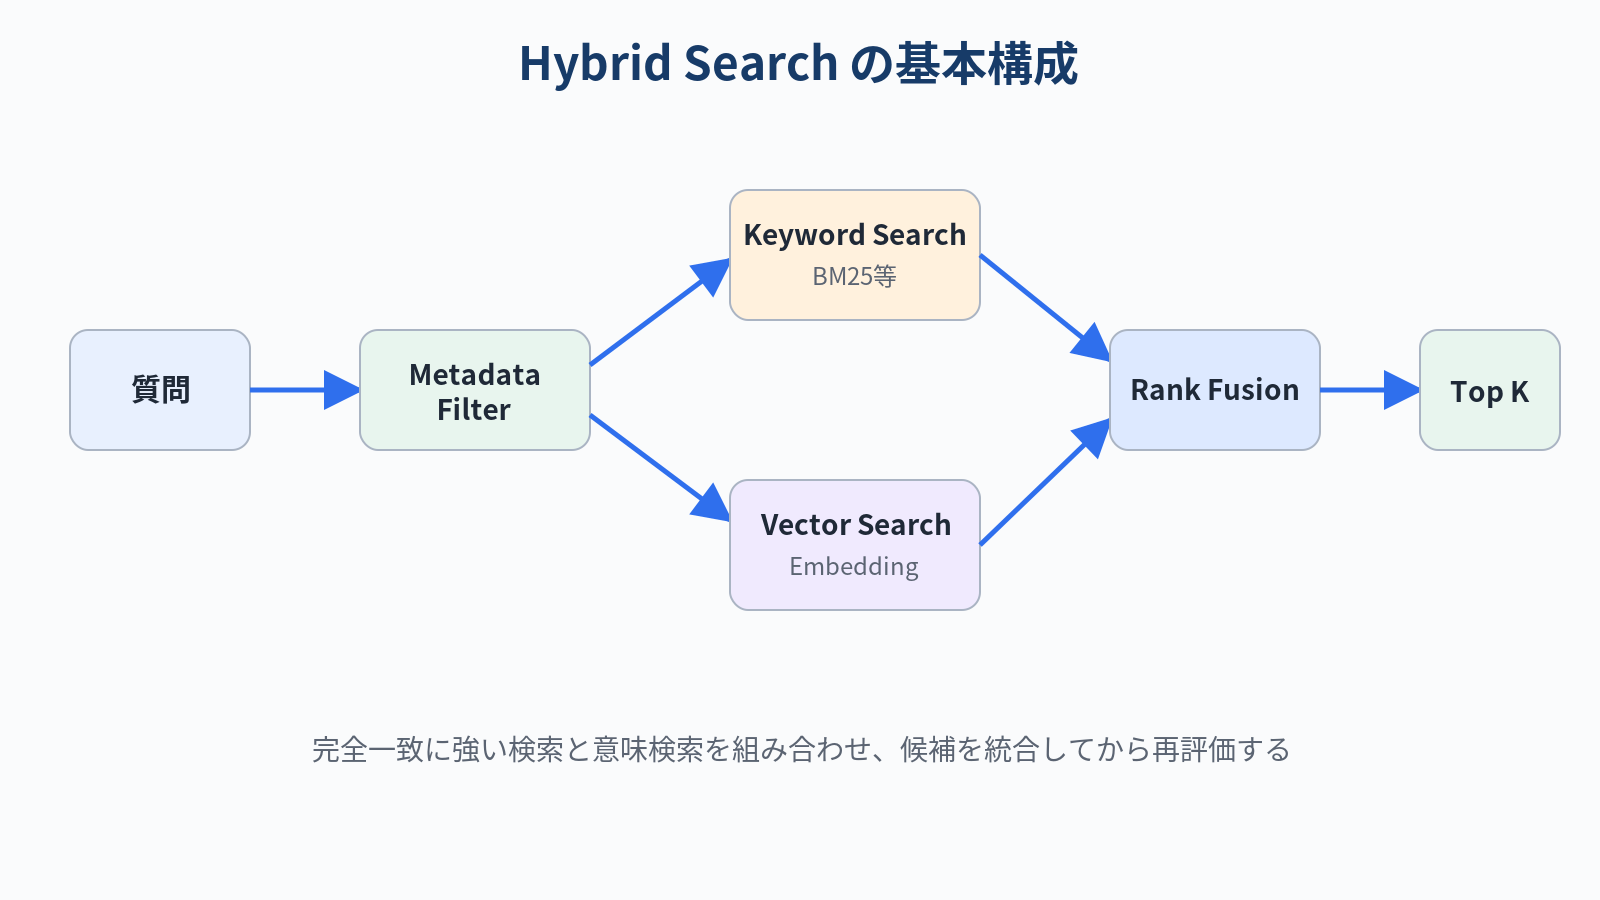
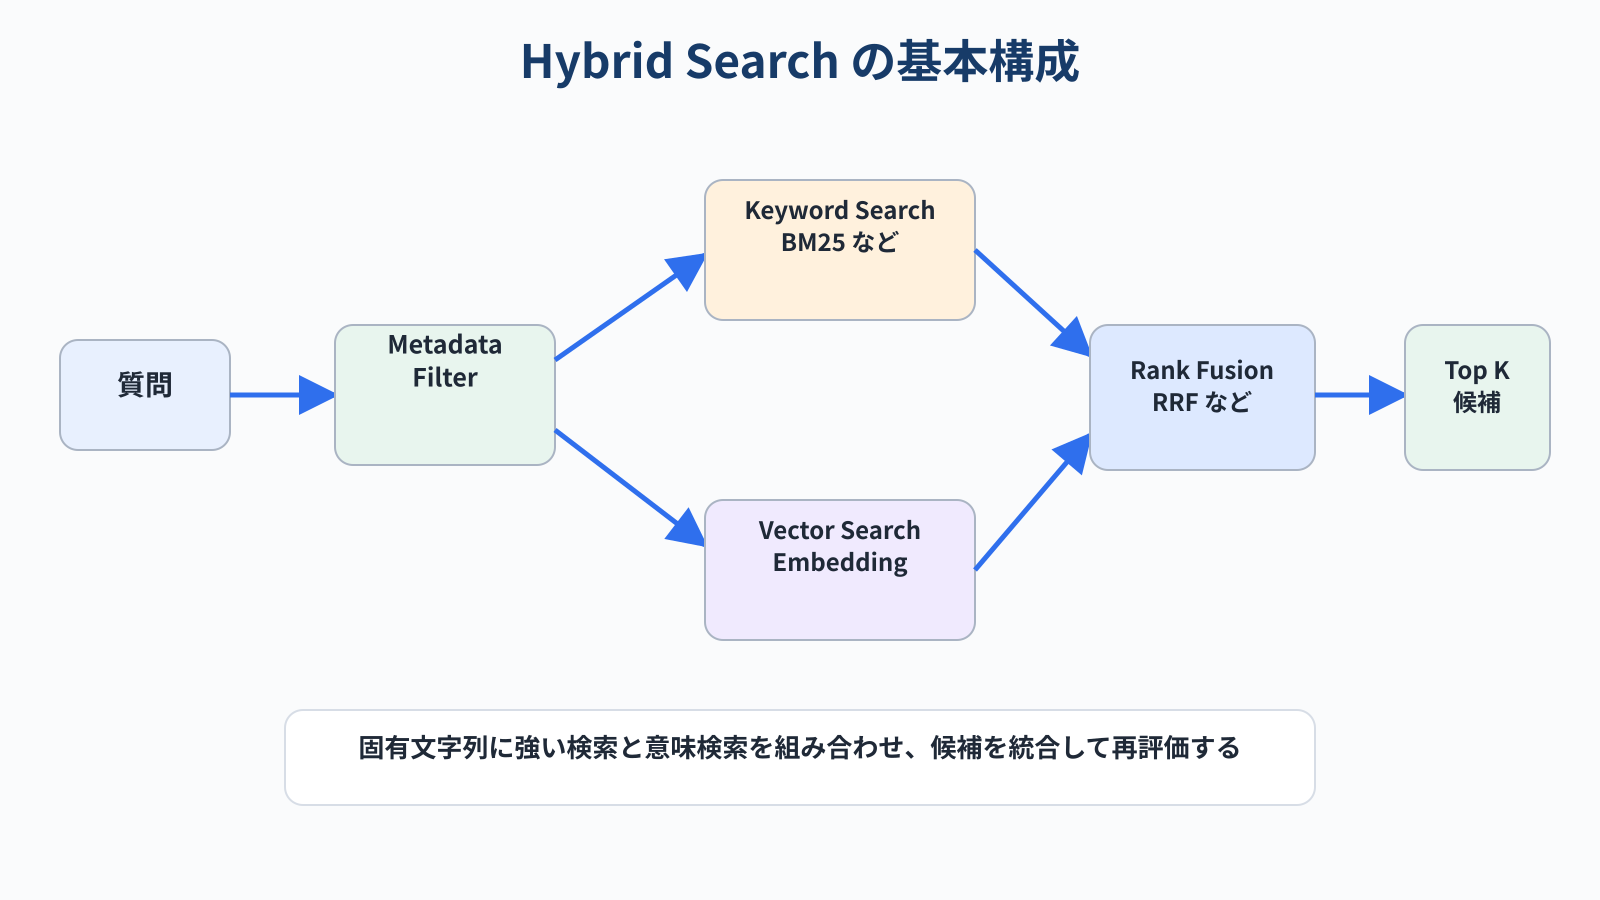
Update Qiita article figures

diff --git a/docs/article/figures/README.md b/docs/article/figures/README.md
@@ -1,13 +1,13 @@
-# 図版
+# Figures
 
-すべて公開用に新規作成した一般概念図です。非公開案件・実データ・非公開評価値・内部ファイル名は含みません。
+Qiita本文で使用する図版です。
 
-- `00_cover` : 記事カバー
-- `01_hybrid_search` : Keyword + Vector + Fusion
-- `02_architecture` : 業務RAG全体像
-- `03_document_management` : RAG向け資料管理
-- `04_chunk_metadata` : ChunkとMetadata
-- `05_update_flow` : 文書更新フロー
-- `06_evaluation_loop` : 評価・改善ループ
+- PNG: Qiita貼り付け用
+- SVG: 編集・再出力用
 
-PNGとSVGを同梱しています。
+## 作図方針
+
+図中の文字・ボックス・矢印は、生成AI画像ではなくSVGの座標で固定しています。
+そのため、日本語文字列の崩れ、ボックスからのはみ出し、矢印のずれが起きにくい構成です。
+
+すべて 1600 x 900 の同一キャンバスで作成しています。
